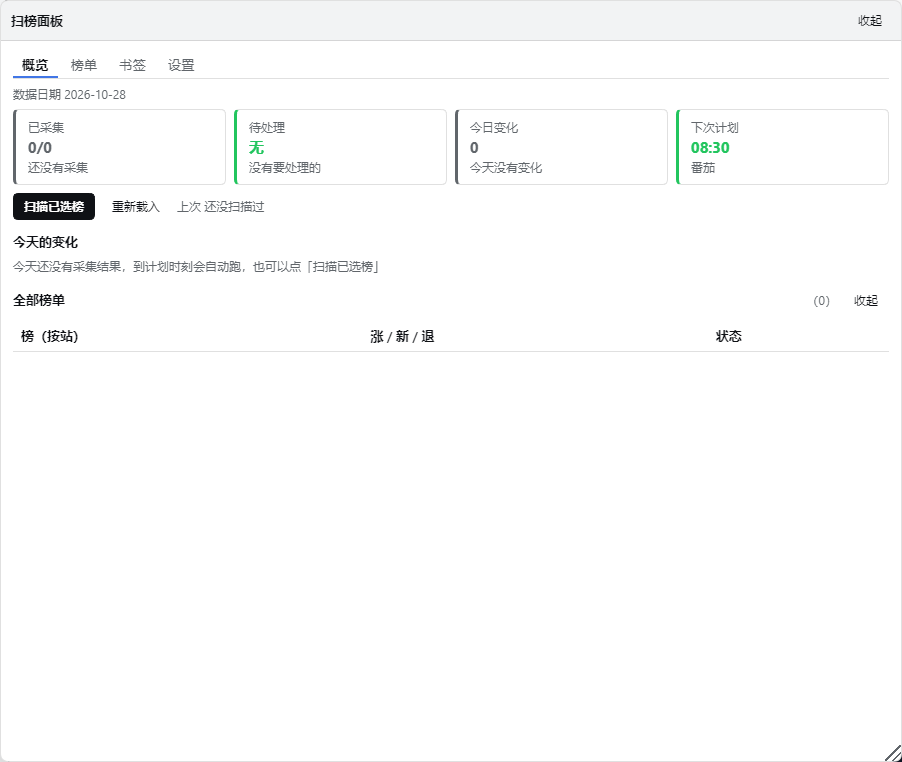
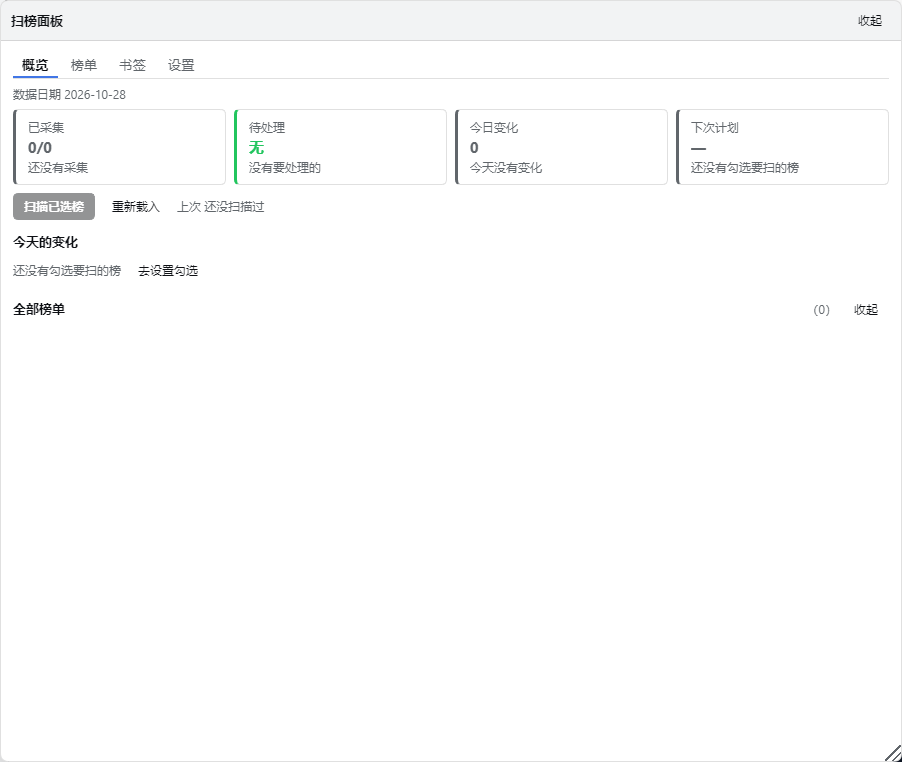
fix(rank-scan): 下次计划跨日与 0 榜空态
今天全部跑完时取已启用站最早时刻写「明天 HH:mm」；只有 siteTimes 为空才把 label 改成「上次扫描」；下次计划改中性色。total=0 时不渲染全部榜单表头，变化区给「去设置勾选」，扫描按钮置灰并说明原因。补三条单测与两张截图。

diff --git a/client/client.js b/client/client.js
@@ -1073,6 +1073,42 @@ const LS_OPEN = 'rank-scan-panel:open:v1'
           props.action || null))
     }
 
+    const SITE_LABELS = { qidian: '起点', qidiantu: '起点图', ciweimao: '刺猬猫', sfacg: '菠萝包', fanqie: '番茄' }
+    const siteLabelOf = function (ov, s) {
+      const hit = ((ov && ov.sites) || []).filter(function (x) { return x.site === s })[0]
+      return hit ? hit.siteName : (SITE_LABELS[s] || String(s))
+    }
+    /**
+     * 下次计划（0.5.0 验收修正）：
+     *   · waiting 里最近站点的时刻 → 中性色；
+     *   · 今天全跑完（无 waiting/fallback）→ 取已启用站 siteTimes 的最早时刻，写「明天 HH:mm」；
+     *   · siteTimes 也为空 → label 改成「上次扫描」，避免把过去的时刻说成将来的计划；
+     *   · 定时关闭/只剩兜底 → warn。
+     */
+    function nextPlanOf(plan, ov, scan, total) {
+      if (!plan) return { label: '下次计划', value: '—', sub: '计划读取中', tone: 'muted' }
+      if (plan.enabled === false) return { label: '下次计划', value: '已关闭', sub: '定时扫描', tone: 'warn' }
+      if (typeof total === 'number' && total === 0) return { label: '下次计划', value: '—', sub: '还没有勾选要扫的榜', tone: 'muted' }
+      const times = plan.siteTimes || {}
+      const waiting = (plan.waiting || []).filter(function (s) { return times[s] })
+      if (waiting.length) {
+        const order = waiting.slice().sort(function (a, b) { return String(times[a]).localeCompare(String(times[b])) })
+        return { label: '下次计划', value: times[order[0]], sub: siteLabelOf(ov, order[0]), tone: 'muted' }
+      }
+      if ((plan.fallback || []).length) {
+        return { label: '下次计划', value: plan.fallbackTime || '22:30', sub: siteLabelOf(ov, plan.fallback[0]), tone: 'warn' }
+      }
+      const enabled = ((ov && ov.sites) || []).map(function (s) { return s.site }).filter(function (s) { return times[s] })
+      const nextTimes = enabled.slice().sort(function (a, b) { return String(times[a]).localeCompare(String(times[b])) })
+      if (nextTimes.length) {
+        const s = nextTimes[0]
+        return { label: '下次计划', value: '明天 ' + times[s], sub: siteLabelOf(ov, s), tone: 'muted' }
+      }
+      const last = scan && (scan.startedAt || scan.at)
+      if (last) return { label: '上次扫描', value: fmtLocalHM(last), sub: '最近一次', tone: 'muted' }
+      return { label: '下次计划', value: '—', sub: '暂时算不出下次', tone: 'muted' }
+    }
+
     function Overview(props) {
       const ov = props.ov
       /**
@@ -1263,24 +1299,7 @@ const LS_OPEN = 'rank-scan-panel:open:v1'
       const collectTone = badRows.length ? 'bad' : dueRows.length ? 'warn' : (ov && total > 0 && (c.ok || 0) === total ? 'ok' : 'muted')
       const issuesTone = !issues.length ? 'ok' : (issues.some(function (it) { return it.status !== 'stale' && it.status !== 'enrich' }) ? 'bad' : 'warn')
       const changesSub = Object.keys(chgTotals).slice(0, 2).map(function (g) { return g + ' ' + chgTotals[g] }).join(' · ')
-      const SITE_NAMES = { qidian: '起点', qidiantu: '起点图', ciweimao: '刺猬猫', sfacg: '菠萝包', fanqie: '番茄' }
-      const siteNameOf = function (s) {
-        const hit = ((ov && ov.sites) || []).filter(function (x) { return x.site === s })[0]
-        return hit ? hit.siteName : (SITE_NAMES[s] || String(s))
-      }
-      const nextPlan = (function () {
-        if (!plan) return { value: '—', sub: '计划读取中', tone: 'muted' }
-        if (plan.enabled === false) return { value: '已关闭', sub: '定时扫描', tone: 'warn' }
-        const times = plan.siteTimes || {}
-        const waiting = (plan.waiting || []).filter(function (s) { return times[s] })
-        if (waiting.length) {
-          const order = waiting.slice().sort(function (a, b) { return String(times[a]).localeCompare(String(times[b])) })
-          return { value: times[order[0]], sub: siteNameOf(order[0]), tone: 'ok' }
-        }
-        if ((plan.fallback || []).length) return { value: plan.fallbackTime || '22:30', sub: siteNameOf(plan.fallback[0]), tone: 'warn' }
-        const last = scan && (scan.startedAt || scan.at)
-        return last ? { value: fmtLocalHM(last), sub: '上次扫描', tone: 'muted' } : { value: '—', sub: '暂时算不出下次', tone: 'muted' }
-      })()
+      const nextPlan = nextPlanOf(plan, ov, scan, total)
       const noData = !!(ov && (c.ok || 0) === 0 && chgRealTotal === 0)
       const noChanges = !!(ov && (c.ok || 0) > 0 && chg && chgRealTotal === 0)
       const jump = function (ref) {
@@ -1318,7 +1337,7 @@ const LS_OPEN = 'rank-scan-panel:open:v1'
             title: '滚到「今天的变化」',
           }),
           h(StatCard, {
-            label: '下次计划', value: nextPlan.value, sub: nextPlan.sub, tone: nextPlan.tone,
+            label: nextPlan.label, value: nextPlan.value, sub: nextPlan.sub, tone: nextPlan.tone,
             onClick: plan && plan.enabled === false && props.onOpenSettings ? props.onOpenSettings : undefined,
             title: plan && plan.enabled === false ? '定时已关闭，点这里去设置' : '下一次站点计划',
           })),
@@ -1326,8 +1345,8 @@ const LS_OPEN = 'rank-scan-panel:open:v1'
         h('div', { style: { ...C.row, marginTop: '8px' } },
           h('button', {
             className: 'rs-btn is-primary',
-            disabled: scanBusy || !ov,
-            title: '按「设置 → 抓取范围」里勾选的榜逐个扫描（联网）',
+            disabled: scanBusy || !ov || total === 0,
+            title: total === 0 ? '还没有勾选要扫的榜，先去「设置 → 抓取范围」勾选' : '按「设置 → 抓取范围」里勾选的榜逐个扫描（联网）',
             onClick: function () { props.act('/scan') },
           }, scanBtnText),
           scanBusy ? h('button', { className: 'rs-btn is-danger', onClick: function () { props.act('/cancel') } }, '停止本次（保留已完成）') : null,
@@ -1367,7 +1386,10 @@ const LS_OPEN = 'rank-scan-panel:open:v1'
         h(SectionHeader, { innerRef: changesRef, title: '今天的变化', count: chgRealTotal ? chgRealTotal + ' 条' : '' }),
         chg && chg.note ? h('div', { style: C.muted }, chg.note) : null,
         previewLimited ? h('div', { style: C.muted }, '下表每榜每类最多列 20 条（本次 ' + chgEntries.length + ' 条，共 ' + chgRealTotal + ' 条）；点行到榜页看全部。') : null,
-        noData ? h('div', { style: C.muted }, '今天还没有采集结果，到计划时刻会自动跑，也可以点「扫描已选榜」') : null,
+        total === 0 ? h('div', { style: { ...C.row, alignItems: 'center' } },
+          h('span', { style: C.muted }, '还没有勾选要扫的榜'),
+          props.onOpenSettings ? h('button', { className: 'rs-btn is-ghost', onClick: props.onOpenSettings }, '去设置勾选') : null) : null,
+        total === 0 ? null : noData ? h('div', { style: C.muted }, '今天还没有采集结果，到计划时刻会自动跑，也可以点「扫描已选榜」') : null,
         noChanges ? h('div', { style: C.muted }, '今天没有榜单变化') : null,
         ov && !chg && !noData ? h('div', { style: C.muted }, '正在读取今天的变化…') : null,
         chgEntries.length ? h('div', { style: C.row },
@@ -1436,7 +1458,7 @@ const LS_OPEN = 'rank-scan-panel:open:v1'
             onClick: function () { setShowAll(!showAll) },
           }, showAll ? '收起' : '展开'),
         }),
-        showAll ? h('table', { style: C.table },
+        showAll && total > 0 ? h('table', { style: C.table },
           h('thead', null, h('tr', null, ['榜（按站）', '涨 / 新 / 退', '状态'].concat(hasNoteCol && !chgNarrow ? ['备注'] : []).map(function (t) { return h('th', { key: t, style: C.th }, t) }))),
           h('tbody', null, ((ov && ov.sites) || []).flatMap(function (s) {
             const okN = s.boards.filter(function (b) { return b.status === 'ok' }).length
@@ -3441,6 +3463,7 @@ const LS_OPEN = 'rank-scan-panel:open:v1'
     metricChipText: metricChipText,
     helpers: { revOf: revOf, statusText: statusText, scanLabel: scanLabel, pollDelay: pollDelay, canDayQuery: canDayQuery, fitColumns: fitColumns, colPrio: colPrio, mdOf: mdOf, boardLabel: boardLabel, rememberBoardNames: rememberBoardNames },
     components: { Overview: Overview, BoardTab: BoardTab, BookmarksTab: BookmarksTab, SettingsTab: SettingsTab, PopMenu: PopMenu, Panel: Panel, ToastHost: ToastHost, StatCard: StatCard, SectionHeader: SectionHeader },
+    nextPlanOf: nextPlanOf,
     toast: toast, toastStore: toastStore, lastNote: lastNote, settingsDiff: settingsDiff,
   } }
   },

diff --git a/docs/handoff-2026-10-28-ui-step4-overview.md b/docs/handoff-2026-10-28-ui-step4-overview.md
@@ -12,7 +12,7 @@
    - 已采集 ok/total；sub 未到计划 / 待补跑，失败时写「有榜没抓到」。
    - 待处理 0 写「无」且 ok；>0 按是否 error 类问题取 bad/warn。
    - 今日变化 chgRealTotal；sub 前两个分组。
-   - 下次计划取 `schedule.waiting` 里最近站点时刻 + 站名；定时关闭写「已关闭」并跳设置；算不出时退回「上次扫描」。
+   - 下次计划取 `schedule.waiting` 里最近站点时刻 + 站名，tone 中性；定时关闭写「已关闭」并跳设置；今天全跑完时取已启用站 `siteTimes` 的最早时刻，写「明天 HH:mm」+ 站名；只有 siteTimes 也为空才把 label 改成「上次扫描」。
    - 网格 `repeat(auto-fit, minmax(180px, 1fr))`：900px 一行 4 张，480px 2×2。**偏差说明**：方案写 140px，但 480px 面板内宽约 455px，140px 会排 3 列；为了让验收要求的 2×2 成立，改成 180px，仍是 auto-fit、不写死列数。
 2. **顺序**：数据日期小字 → 四卡 → 主动作行 → 需要处理 → 补全 Banner → 今天的变化 → 全部榜单；「需要处理」提前到补全前。
 3. **SectionHeader**：标题 + 右侧计数 + 可选操作，替换两处 `C.siteBar`；`innerRef` 给四张卡 `scrollIntoView({block:'nearest'})` 用，滚动容器是面板 body。
@@ -20,6 +20,7 @@
    - 当天未采集（ok=0 且无变化）显示「今天还没有采集结果，到计划时刻会自动跑，也可以点「扫描已选榜」」，不渲染变化表/分组筛选。
    - 有采集但无变化写「今天没有榜单变化」，不渲染分组筛选。
    - `/overview` 未到时四张卡占位「—」，不再整页「加载中…」。
+   - total=0：变化区写「还没有勾选要扫的榜」+ ghost「去设置勾选」；「全部榜单」不渲染表头；「扫描已选榜」置灰并说明原因。
 5. **小尾巴 A**：板页单榜扫描通过 `onScanStart/onScanEnd` 接入 Panel 的 `scanActBusy`/ `postInFlightRef`；扫到一半切概览，「扫描已选榜」已置灰。409 统一 warn「已有扫描在进行，请等它跑完」。
 6. **小尾巴 B**：上架日输入、本榜设置条数输入改用 `...C.input`，不再写死 `fontSize:'12px', padding:'2px 4px'`。
 
@@ -38,7 +39,7 @@
 
 ## 测试
 
-- `scripts/test-local.ps1`：**410 pass / 0 fail**，53 个测试文件。
+- `scripts/test-local.ps1`：**413 pass / 0 fail**，53 个测试文件。
 - `scripts/acceptance.ps1 -SkipLive`：**PASS 96 / FAIL 0**。
   - 过程中修了验收脚本的假红：公开面闸在后台重定向下读到错误退出码，改用 .NET Process.ExitCode；未改任何断言。
 - 新增 `tests/ui-overview.test.mjs`：6 条（顺序、4 处 StatCard、button/div、auto-fit+minmax、空态/无变化筛选、A 忙态/409、B 的 C.input）。
@@ -56,7 +57,7 @@
 
 ## 截图
 
-本地：`docs/ui/after/step4-overview-{900-light,900-dark,480-dark,issue,empty}.png`（gitignored）。
+本地：`docs/ui/after/step4-overview-{900-light,900-dark,480-dark,issue,empty,all-done}.png`（gitignored）。
 入库副本：`docs/screenshots/step4-overview/`（已推到 `ui/step4-overview`）。
 GitHub 目录：https://github.com/kilo-s/dsh-rank-scan/tree/fc7dfba296087da35009f33a792cac604687bbb2/docs/screenshots/step4-overview
 
